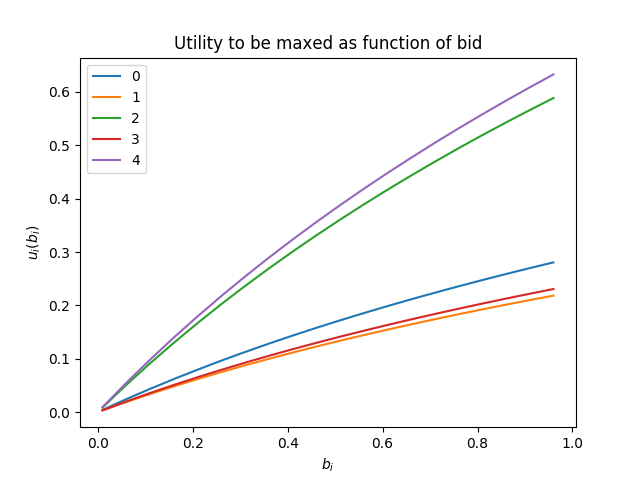
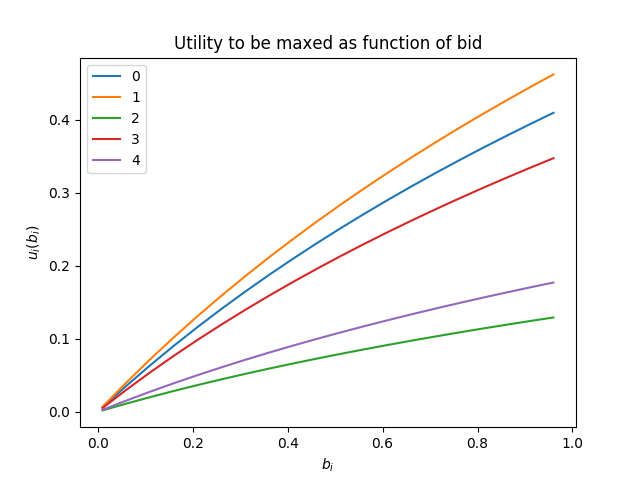
Adding in experiments varying c and impact on price, social welfare, and inequality

diff --git a/utils.py b/utils.py
@@ -4,9 +4,10 @@ import matplotlib
 matplotlib.use('Agg')
 from matplotlib import pyplot as plt
 import inequality
+import auction
 import players
 
-def socialwelfare(player_dict, bids, price, good_alloc):
+def socialwelfare(player_dict, bids, price, good_alloc=1):
 	utilities = [player.u(bids[key]) for key, player in player_dict.items()]
 	return np.sum(utilities), np.sum(utilities) - price * good_alloc
 
@@ -43,3 +44,29 @@ def plotutilities(player_dict, price_u, price_v):
 	plt.ylabel('$v_i(b_i) - p \\cdot b_i$')
 	plt.title('Utility - ineq - price to be maxed as function of bid')
 	plt.savefig('figs/util_vp_gini.png');
+
+
+def ploteffectc(player_dict,ineq='gini'):
+	final_prices_c = {}
+	sw = {}
+	iq = {}
+
+	cs = np.arange(0., 1.5, 0.075)
+	for c in cs:
+		for player in player_dict.values():
+			player.setc(c)
+		bv, fp_v = auction.simultaneous_clock_auction_asc(player_dict, uorv='v', ineq=ineq)
+		final_prices_c[c] = fp_v
+		sw[c] = socialwelfare(player_dict, bv, fp_v, good_alloc=np.sum(list(bv.values())))[1]
+		iq[c] = inequality.total_ineq(player_dict, bv, good_or_util='u', iq_metric='gini')
+
+	print(final_prices_c)
+
+	df_c_gini = pd.DataFrame({c: [final_prices_c[c], sw[c], iq[c]] for c in cs} , index=['Final prices', 'Social Welfare', 'Gini coefficient']).T
+	print(df_c_gini)
+	plt.figure()
+	df_c_gini.plot()
+	plt.xlabel('$c$')
+	#plt.ylabel('Final price $p$ / Social Welfare')
+	plt.title('Effect of inequality aversion $c$ on final price, social welfare, and inequality')
+	plt.savefig('figs/c_impact_price_gini.png');

diff --git a/main.py b/main.py
@@ -18,24 +18,27 @@ def main():
 
 	#initialize players
 	for player in range(n):
-		player_dict[player] = players.Player(np.random.rand(), 0.2)
+		player_dict[player] = players.Player(np.random.rand(), 0.15) #alpha_i parameterizing the utility and c_i
 
 
 	#run auction
 	bids_u, final_price_u = auction.simultaneous_clock_auction_asc(player_dict, uorv='u')
 	bids_v, final_price_v = auction.simultaneous_clock_auction_asc(player_dict, uorv='v', ineq='gini')
-	print(bids_u)
-	print(bids_v)
-	print(final_price_u)
-	print(final_price_v)
+	#print(bids_u)
+	#print(bids_v)
+	#print(final_price_u)
+	#print(final_price_v)
 
 	
 	#calculate inequality at the end
-	#TODO
+	ginicoeff_u = inequality.total_ineq(player_dict, bids_u)
+	ginicoeff_v = inequality.total_ineq(player_dict, bids_v)
+	#print(ginicoeff_u)
+	#print(ginicoeff_v)
 
 	#plot utility of all the players in the auction with and without inequality aversion
 	utils.plotutilities(player_dict, final_price_u, final_price_v)
-
+	utils.ploteffectc(player_dict)
 
 
 if __name__ == "__main__":

diff --git a/inequality.py b/inequality.py
@@ -10,6 +10,18 @@ def variance_bc(n):
 def gini_bc(n):
     return lambda x : (n-1) * cp.abs( x - (1.-x) / (n - 1.)) / n
 
-def total_ineq(player_dict, iq_metric='gini'):
-    #TODO
+def total_ineq(player_dict, bids, good_or_util='u', iq_metric='gini'):
+    if iq_metric == 'gini':
+        if good_or_util == 'u':
+            x = [player.u(bids[key]) for key, player in player_dict.items()]
+        else:
+            x = list(bids.keys())
+        
+        # Mean absolute difference
+        mad = np.abs(np.subtract.outer(x, x)).mean()
+        # Relative mean absolute difference
+        rmad = mad/np.mean(x)
+        # Gini coefficient
+        g = 0.5 * rmad
+        return g
     return 0

diff --git a/auction.py b/auction.py
@@ -1,7 +1,7 @@
 import numpy as np
 import players
 
-def simultaneous_clock_auction_asc(player_dict,uorv = 'u',ineq='genent',reserve_price = 0.1,step_size = 0.1,max_price=10.):
+def simultaneous_clock_auction_asc(player_dict,uorv = 'u',ineq='genent',reserve_price = 0.1,step_size = 0.05,max_price=10.):
 	price = reserve_price
 	overdemand = True
 	while overdemand == True and price <= max_price:
